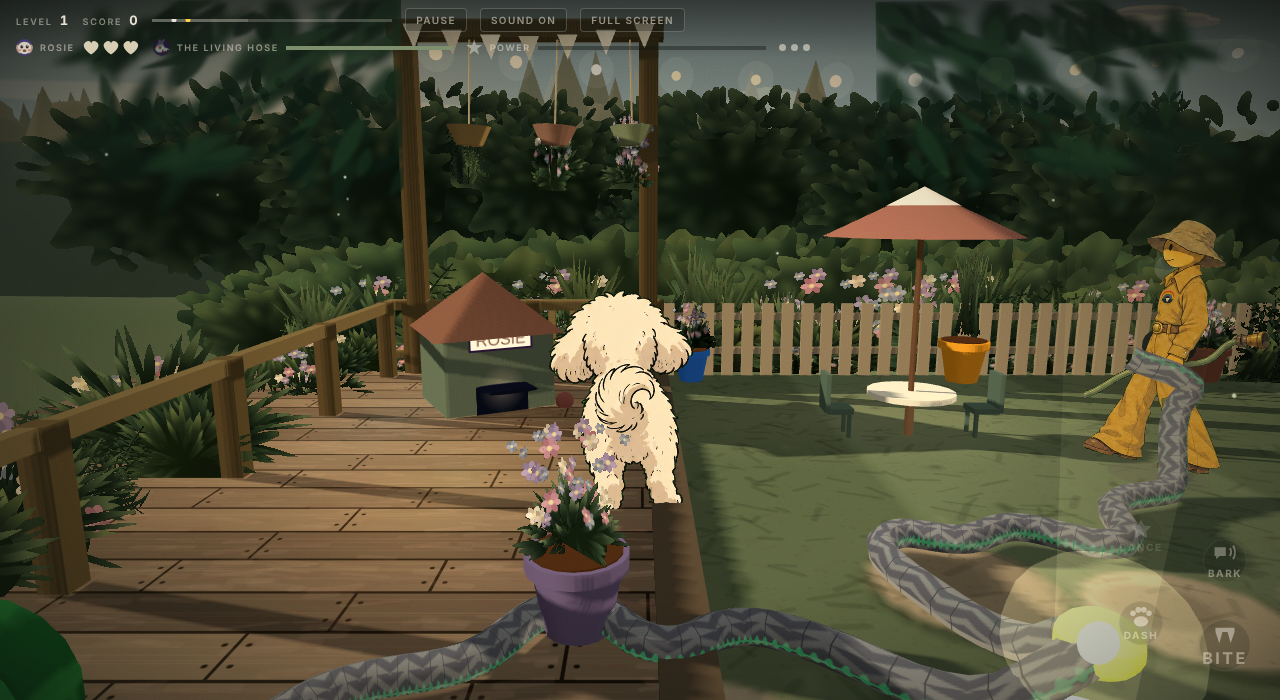
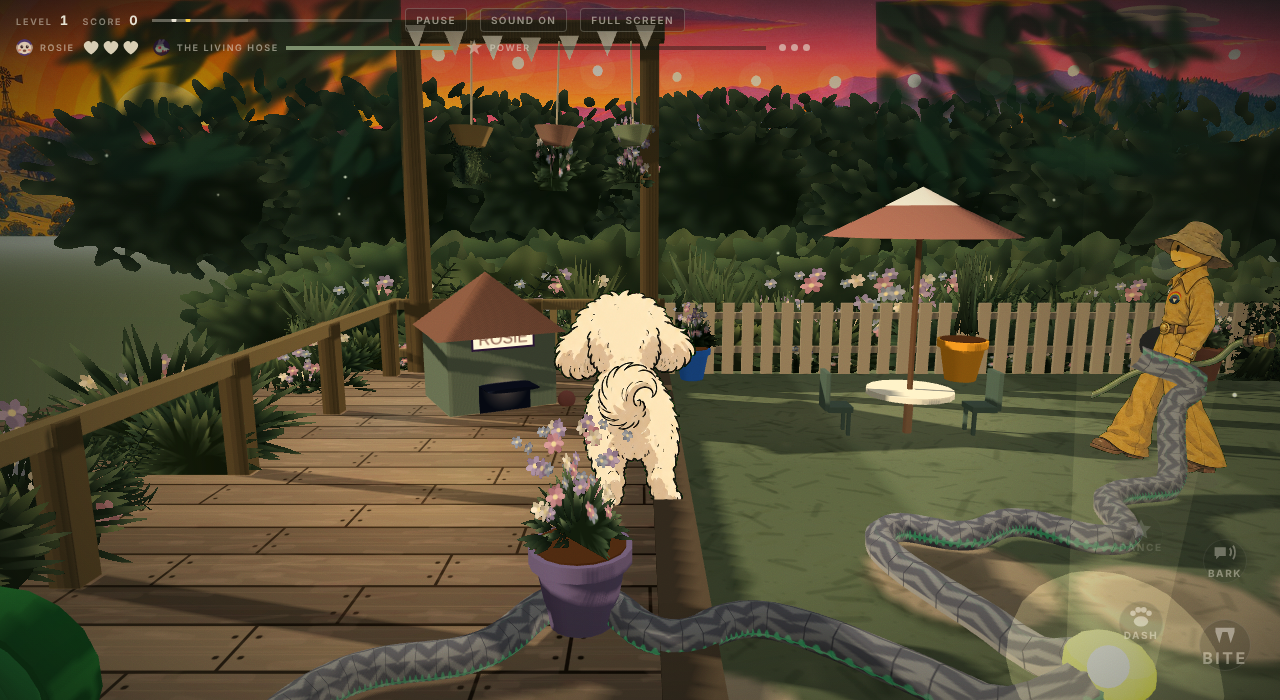
feat(art): hang the user's painted panorama as the backdrop, retire the 3D hills
The panorama is a single far plane behind everything. Nothing walks there, so
it never needed to be geometry. It sits beyond the farthest 3D ridge, spans a
wide x range so the camera can pan without running off the edge of the
painting, is sized from the image's own 3:1 aspect, and keeps its lower half
below ground where the deck and hedge cover it.

Everything the old 3D backdrop block adds is tagged bd3d by diffing
scene.children, and switched off in one pass when the painting loads — the
panorama has its own mountains, trees and water tower, so leaving the 3D set
standing would show two ranges of hills at once. Tagging by diff rather than by
naming each object means the next thing added to that block is covered too.

Two fixes found by looking at the render:
- renderOrder 1, not -1. The sky dome draws with depthWrite:false, so anything
  drawn before it is painted over whatever its distance; the first attempt put
  the panorama behind the sky and it vanished. Drawn after the dome it shows,
  and still depth-TESTS at its true distance, so the deck, hedge and characters
  correctly occlude it.
- fog far pushed past the backdrop. Fog would grey out a painting that is
  itself the haze.

A missing file leaves the 3D ridges exactly as they were.

Evidence: production/qa/evidence/hz0..hz5.png

Claude-Session: https://claude.ai/code/session_01JR8fsw3Uh5kViP8MJWMfnz

diff --git a/src/index.html b/src/index.html
@@ -1771,6 +1771,11 @@ cyl(scene,M('#6b4423'),16,200,2350,100,-150);for(const [x,y,z,r] of [[0,180,0,95
 for(const [x,y,z] of [[-40,230,70],[30,200,78],[70,260,50],[-10,280,60],[-80,190,55]])sph(scene,M('#97504a',{roughness:.3}),9,2350+x,y,-150+z);
 box(scene,M('#77584a'),190,140,130,2710,70,-180);{const r=add(scene,G_K4,M('#473429'),2710,172,-180,150,66,110);r.rotation.y=Math.PI/4;}box(scene,whiteM2,44,92,4,2710,46,-113);box(scene,winM,34,26,4,2650,95,-113,false);
 /* backdrop v2: three baked ridge layers, a toy water tower, lollipop poplars (no ink, no shadows) */
+/* Everything this block adds to the scene gets tagged 'bd3d' so the painted backdrop can switch
+   it all off in one pass. The user's panorama contains its own mountains, trees and water tower,
+   so leaving these standing in front of it would show two sets of hills at once. Tagged by
+   diffing scene.children rather than by naming each object, which would miss the next one added. */
+const _bd0=scene.children.length;
 {const noSh=m=>{m.castShadow=false;m.receiveShadow=false;return m;};
   /* art v3: forested hillsides. Each layer keeps its seven baked humps and then gets three
      InstancedMeshes of trees -- conifer, broadleaf, and a warm sun-rimmed conifer for the crests --
@@ -1824,6 +1829,32 @@ box(scene,M('#77584a'),190,140,130,2710,70,-180);{const r=add(scene,G_K4,M('#473
     cyl(pg,pm,h*.035,h*.5,x,h*.25,z,false);
     for(let k=0;k<3;k++)canopy(x+(r2()-.5)*h*.09,z+(r2()-.5)*40,h*(.14+k*.20),h*(.56-k*.07),h*(.50-k*.07),k?2:0,['#d4dcea','#c6d2e4','#dde4ef'][k]);}
   noSh(bake(pg,pm));}
+for(let i=_bd0;i<scene.children.length;i++)scene.children[i].userData.bd3d=true;
+/* ---- PAINTED BACKDROP ----------------------------------------------------------------------
+   The user's wide panorama, hung as a single far plane behind everything. Nothing walks there, so
+   it never needs to be geometry. It sits beyond the farthest 3D ridge (z -4000) and spans a wide
+   x range so the camera can pan without running off the edge of the painting. Sized from the
+   image's own aspect, with the centre chosen to put the painted horizon near the arena's, and
+   the lower half deliberately below ground where the deck and hedge cover it. */
+(function(){
+ new THREE.TextureLoader().load('art/backdrop.jpg',tx=>{
+  tx.encoding=THREE.sRGBEncoding;tx.minFilter=THREE.LinearFilter;tx.magFilter=THREE.LinearFilter;
+  tx.generateMipmaps=false;tx.anisotropy=4;tx.wrapS=tx.wrapT=THREE.ClampToEdgeWrapping;
+  const asp=(tx.image&&tx.image.width)?tx.image.width/tx.image.height:3,W=15000,H=W/asp;
+  const bd=new THREE.Mesh(new THREE.PlaneGeometry(W,H),
+    new THREE.MeshBasicMaterial({map:tx,depthWrite:false,fog:false,toneMapped:false}));
+  /* renderOrder 1, NOT -1. The sky dome draws with depthWrite:false, so anything drawn before it
+     gets painted over regardless of distance -- the first attempt put the panorama behind the
+     sky and it vanished. Drawn after the dome it shows, and because it still depth-TESTS at its
+     real distance, the deck, hedge and characters (renderOrder 0, drawn earlier with depth)
+     correctly occlude it. */
+  bd.position.set(1600,H*0.06,-5600);bd.renderOrder=1;bd.frustumCulled=false;scene.add(bd);
+  /* the 3D hills, tower and poplars step aside now that the painting is carrying the distance */
+  scene.children.forEach(o=>{if(o.userData&&o.userData.bd3d)o.visible=false;});
+  /* fog would grey out a painting that is meant to BE the haze, so push it past the backdrop */
+  if(scene.fog){scene.fog.far=Math.max(scene.fog.far,5200);}
+ },undefined,()=>{});   /* no painting -> the 3D ridges simply stay, exactly as before */
+})();
 /* art v3 item 10: five painted bands, not eight blobs -- flatter (y .22), wider (x 1.8), each with a
    rose underside slab, and baked per material so the whole cloud layer costs 10 draw calls, not 48. */
 const cloud3=[],cloudM=M('#ffd0a8',{emissive:'#ff8f6a'}),cloudU=M('#c2628f');
